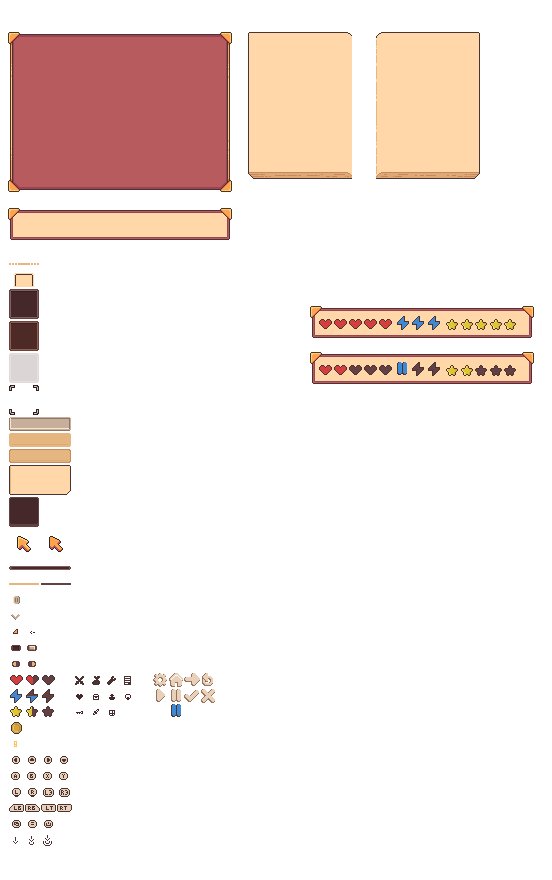
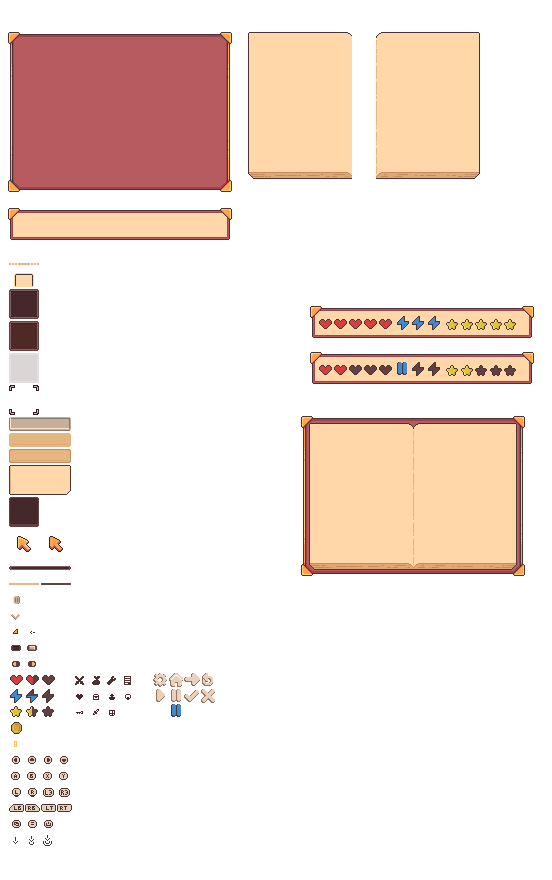
Pause Menu implemented

Changed region(s): [[0.5236, 0.4602, 0.9547, 0.675]]

diff --git a/Coursework/CMP105App/Menu.cpp b/Coursework/CMP105App/Menu.cpp
@@ -1,27 +1,52 @@
 #include "Menu.h"
 
-Menu::Menu(sf::RenderWindow& hwnd, Input& in, GameState& gs, AudioManager& aud, std::string menuType, std::string song) :
-	BaseLevel(hwnd, in, gs, aud), m_title(m_font)
+Menu::Menu(sf::RenderWindow& hwnd, Input& in, GameState& gs, AudioManager& aud, std::string menuType, sf::Texture& texture, std::string song) :
+	Scene(hwnd, in, gs, aud), m_title(m_font)
 {
 	m_audio.addMusic(menuType + "MenuTheme", song);
 	m_audio.getMusic(menuType + "MenuTheme")->setLooping(true);
 
 
-	sf::Vector2u screenSize = m_window.getSize();
+	m_textures = texture;
+	m_bookGraphic.setTexture(&m_textures);
+	m_bookGraphic.setTextureRect({ {300,415},{226,162} });
+	m_bookGraphic.setSize({ 1130, 810});
+	
 
+	sf::Vector2u screenSize = m_window.getSize();
+	sf::Vector2i screen = m_window.getPosition();
+
+	float radius = screenSize.x / 2.f;
+	sf::Vector2f centre = { screen.x + radius, screen.y + radius };
+	sf::Vector2f diff = { screen.x - m_bookGraphic.getSize().x , screen.y - m_bookGraphic.getSize().y };
+	m_bookGraphic.setPosition({ 10 ,10});
 	loadMenu(menuType, screenSize);
 }
 
 
-Menu::Menu(sf::RenderWindow& hwnd, Input& in, GameState& gs, AudioManager& aud, std::string menuType) :
-	BaseLevel(hwnd, in, gs, aud), m_title(m_font)
+Menu::Menu(sf::RenderWindow& hwnd, Input& in, GameState& gs, AudioManager& aud, std::string menuType, sf::Texture& texture)  :
+	Scene(hwnd, in, gs, aud), m_title(m_font)
 {
 
+	m_textures = texture;
+	m_bookGraphic.setTexture(&m_textures);
+	m_bookGraphic.setTextureRect({ {300,415},{226,162} });
+	m_bookGraphic.setSize({ 1130, 810 });
+	m_bookGraphic.setPosition({ 5,5 });
+
 
 	sf::Vector2u screenSize = m_window.getSize();
+	sf::Vector2i screen = m_window.getPosition();
+
+	float radius = screenSize.x / 2.f;
+	sf::Vector2f centre = { screen.x + radius, screen.y + radius };
+	sf::Vector2f diff = { screen.x - m_bookGraphic.getSize().x , screen.y - m_bookGraphic.getSize().y };
+	m_bookGraphic.setPosition({ 10,10 });
 
 	loadMenu(menuType, screenSize);
 }
+
+
 
 
 void Menu::update(float dt)
@@ -37,7 +62,7 @@ void Menu::update(float dt)
 			switch (b->m_buttonID)
 			{
 			case 'L':
-				//m_gameState.setCurrentState(State::LEVEL);
+				m_gameState.setCurrentState(State::LEVEL);
 				//m_audio.getMusic("GameTheme")->play();
 				break;
 			case 'M':
@@ -45,12 +70,10 @@ void Menu::update(float dt)
 				//m_audio.playMusicbyName("MainMenuTheme");
 				break;
 			case 'R':
+				m_gameState.setCurrentState(State::LEVEL);
 				break;
 			case 'C':
 				m_gameState.setCurrentState(State::CREDITS);
-
-				m_audio.playMusicbyName("BuilderTheme");
-				
 				break;
 			case 'Q':
 				m_window.close();
@@ -79,6 +102,8 @@ void Menu::render()
 
 	m_window.setView(m_window.getDefaultView());
 
+	m_window.draw(m_bookGraphic);
+
 	m_window.draw(m_title);
 	for (auto b : m_buttonList)
 	{
@@ -98,9 +123,9 @@ void Menu::loadMenu(std::string menuName, sf::Vector2u screenSize)
 	
 	if (menuName == "Main")
 	{
-		m_title.setString("Shepherd of the Cryptid");
-		m_title.setPosition({ screenSize.x * .5f - 350.f, screenSize.y * .5f - 125.f });
-		m_title.setScale({ 2.f, 2.f });
+		m_title.setString("Adventure Of A Handy Dino");
+		m_title.setPosition({ screenSize.x * .5f - 550.f, screenSize.y * .5f - 125.f });
+		m_title.setScale({ 1.5f, 1.5f });
 
 	}
 	else if (menuName == "Pause")
@@ -121,7 +146,10 @@ void Menu::loadMenu(std::string menuName, sf::Vector2u screenSize)
 		m_title.setPosition({ screenSize.x * .5f - 70.f, screenSize.y * .5f - 125.f });
 		m_title.setScale({ 1.5f, 1.5f });
 	}
+	else if (menuName == "Credits")
+	{
 
+	}
 
 	std::ifstream menuFile("data/menu.txt");
 
@@ -149,6 +177,7 @@ void Menu::loadMenu(std::string menuName, sf::Vector2u screenSize)
 
 			m_buttonList.push_back(new menuButton({ sizeX,sizeY }, { screenSize.x * 0.5f - posOffX , screenSize.y * 0.5f + posOffY }, label, labelOff, ID, &m_audio));
 			m_buttonList[i]->setInput(&m_input);
+			m_buttonList[i]->setTexture(&m_textures);
 
 			i += 1;
 

diff --git a/Coursework/CMP105App/Main.cpp b/Coursework/CMP105App/Main.cpp
@@ -66,6 +66,7 @@ void windowProcess(sf::RenderWindow& window, Input& in)
 		{
 			in.setMousePosition(mouseMoved->position.x, mouseMoved->position.y);
 		}
+		
 		/*
 		* There are other events you may wish to poll for, such as:
 		* controller or joystick input, scrolling mouse wheel or focus gained/lost
@@ -88,11 +89,17 @@ int main()
 	Input input;
 	GameState gameState;
 
+	sf::Texture UI_texture;
+	if (!UI_texture.loadFromFile("gfx/UI_spritsheet.png"))
+		Utils::printMsg("No UI ", MessageType::ERROR);
+
 
 	// Create level objects that may reference manager objects
+	Menu menu(window, input, gameState, audioManager, "Main", UI_texture);
+	Menu pauseMenu(window, input, gameState, audioManager, "Pause", UI_texture);
+	Menu creditsPage(window, input, gameState, audioManager, "Credits", UI_texture );
 
-	Menu menu(window, input, gameState, audioManager, "Main");
-//	Scene* currentScene = &menu;
+	Scene* currentScene = &menu;
 	enemyLevel enemyTest(window, input, gameState, audioManager);
 
 	// Initialise objects for delta time
@@ -100,12 +107,15 @@ int main()
 	float deltaTime = 0.f;
 
 	gameState.setCurrentState(State::MENU);
-	//menu.onBegin();
+	menu.onBegin();
 
-	//std::map<State, Scene*> sceneRegistry =
-	//{
-	//	{State::MENU, &menu},
-	//};
+	std::map<State, Scene*> sceneRegistry =
+	{
+		{State::MENU, &menu},
+		{State::PAUSE, &pauseMenu},
+		{State::LEVEL, &enemyTest},
+		{State::CREDITS, &creditsPage}
+	};
 	
 	// Game Loop
 	while (window.isOpen())
@@ -119,23 +129,23 @@ int main()
 		if (deltaTime > 0.1f) deltaTime = 0.1f; // Clamp delta time to avoid large jumps
 
 		{
-			//State requestedState = gameState.getCurrentState();
-		//if sceneRegistry[requestedState] != currentScene)
-		//{
-		//	currentScene->onEnd();
-		//	currentScene = sceneRegistry[requestedState];
-		//	currentScene->onBegin();
-		//}
+			State requestedState = gameState.getCurrentState();
+		if (sceneRegistry[requestedState] != currentScene)
+		{
+			currentScene->onEnd();
+			currentScene = sceneRegistry[requestedState];
+			currentScene->onBegin();
+		}
 		// run the core loop for the current scene
-		//currentScene->handleInput(deltaTime);
-		//currentScene->update(deltaTime);
-		//currentScene->render();
+			currentScene->handleInput(deltaTime);
+			currentScene->update(deltaTime);
+			currentScene->render();
 		}
 		
 
-		enemyTest.handleInput(deltaTime);
-		enemyTest.update(deltaTime);
-		enemyTest.render();
+		//enemyTest.handleInput(deltaTime);
+		//enemyTest.update(deltaTime);
+//		enemyTest.render();
 
 
 		// Update input class, handle pressed keys

diff --git a/Coursework/CMP105App/Menu.h b/Coursework/CMP105App/Menu.h
@@ -5,15 +5,19 @@
 #include <fStream>
 
 class Menu :
-    public BaseLevel
+    public Scene
 {
 public:
-    Menu(sf::RenderWindow& window, Input& input, GameState& gameState, AudioManager& audio, std::string menuType);
-    Menu(sf::RenderWindow& window, Input& input, GameState& gameState, AudioManager& audio, std::string menuType, std::string song);
+    Menu(sf::RenderWindow& window, Input& input, GameState& gameState, AudioManager& audio, std::string menuType, sf::Texture& texture);
+    Menu(sf::RenderWindow& window, Input& input, GameState& gameState, AudioManager& audio, std::string menuType, sf::Texture& texture, std::string song);
 
     void handleInput(float dt) override;
     void update(float dt) override;
     void render() override;
+
+    void onBegin() override {};
+
+    void onEnd() override {};
 
 
     void setPreviousState(std::string screen) { m_previousScreen = screen; }
@@ -23,8 +27,10 @@ public:
 
 private:
 
-   std::vector<menuButton*> m_buttonList;
+    sf::Texture m_textures;
+    std::vector<menuButton*> m_buttonList;
 
+    sf::RectangleShape m_bookGraphic;
     std::string m_previousScreen;
 
     sf::Text m_title;

diff --git a/Coursework/CMP105App/enemyLevel.cpp b/Coursework/CMP105App/enemyLevel.cpp
@@ -2,15 +2,14 @@
 #include <iostream>
 
 enemyLevel::enemyLevel(sf::RenderWindow& window, Input& input, GameState& gameState, AudioManager& audio) 
-	: BaseLevel(window, input, gameState, audio)
+	: Scene(window, input, gameState, audio)
 {
 	// setup player 
 	m_player.setInput(&m_input);
 	m_player.setEdges(0, WORLD_SIZE.x);
 	m_player.setPosition({ 100, 400 });
 	m_player.setAudio(&m_audio);
-
-
+	
 	m_screenLoader.create("screen1");
 
 	
@@ -18,8 +17,10 @@ enemyLevel::enemyLevel(sf::RenderWindow& window, Input& input, GameState& gameSt
 
 void enemyLevel::handleInput(float dt) 
 {
-
-	m_player.handleInput(dt);
+	if (m_input.isPressed(sf::Keyboard::Scancode::Escape))
+		m_gameState.setCurrentState(State::PAUSE);
+	else
+		m_player.handleInput(dt);
 }
 
 

diff --git a/Coursework/CMP105App/userInterface.cpp b/Coursework/CMP105App/userInterface.cpp
@@ -3,9 +3,8 @@
  userInterface::userInterface()
 {
      //"C:\Users\Marcy\105_solo_project\Coursework\CMP105App\gfx\UI_spritsheet.png"
-     //if (!m_UITexture.loadFromFile("gfx/UI_spriteSheet.png"))
-     if (!m_UITexture.loadFromFile("C:/Users/Marcy/105_solo_project/Coursework/CMP105App/gfx/UI_spritsheet.png"))
-        Utils::printMsg("No UI ", MessageType::ERROR);
+     if (!m_UITexture.loadFromFile("gfx/UI_spritsheet.png"))
+         Utils::printMsg("No UI ", MessageType::ERROR);
 
      m_banner.setTexture(&m_UITexture);
      m_banner.setTextureRect({ {6,206} , {252 , 36} });

diff --git a/Coursework/CMP105App/enemyLevel.h b/Coursework/CMP105App/enemyLevel.h
@@ -9,10 +9,15 @@
 #include "userInterface.h"
 
 class enemyLevel :
-    public BaseLevel
+    public Scene
 {
 public:
     enemyLevel(sf::RenderWindow& window, Input& input, GameState& gameState, AudioManager& audio);
+
+    void onBegin() override {};
+
+    void onEnd() override {};
+
 
     void handleInput(float dt) override;
     void update(float dt) override;
@@ -28,7 +33,6 @@ private:
     TileMap m_tilemap;
     TileMap m_bgtilemap;
     Player m_player;
-
 
     userInterface m_ui;
 

diff --git a/Coursework/CMP105App/menuButton.cpp b/Coursework/CMP105App/menuButton.cpp
@@ -7,7 +7,7 @@ menuButton::menuButton(sf::Vector2f size, sf::Vector2f pos, sf::String lbl, floa
 	setPosition(pos);
 	setSize(size);
 
-
+	setTextureRect({ {8,432} , {64,16} });
 	if (!m_font.openFromFile("font/fool.ttf")) std::cerr << "no font";
 	m_label.setFont(m_font);
 	m_label.setString(lbl);

diff --git a/Coursework/CMP105App/Framework/GameState.h b/Coursework/CMP105App/Framework/GameState.h
@@ -6,7 +6,7 @@
 #pragma once
 
 // Possible states. This enum can be modified to add additional states as required.
-enum class State { MENU, LEVELONE, LEVELTWO, PAUSE, CREDITS };
+enum class State { MENU, LEVEL, BOSS_LEVEL, PAUSE, CREDITS };
 
 class GameState
 {

diff --git a/Coursework/CMP105App/menuButton.h b/Coursework/CMP105App/menuButton.h
@@ -23,6 +23,7 @@ public:
     buttonState m_state = buttonState::ACTIVE;
     GameObject m_buttonObject;
 
+  
     sf::Text m_label;
     sf::Font m_font;
 
